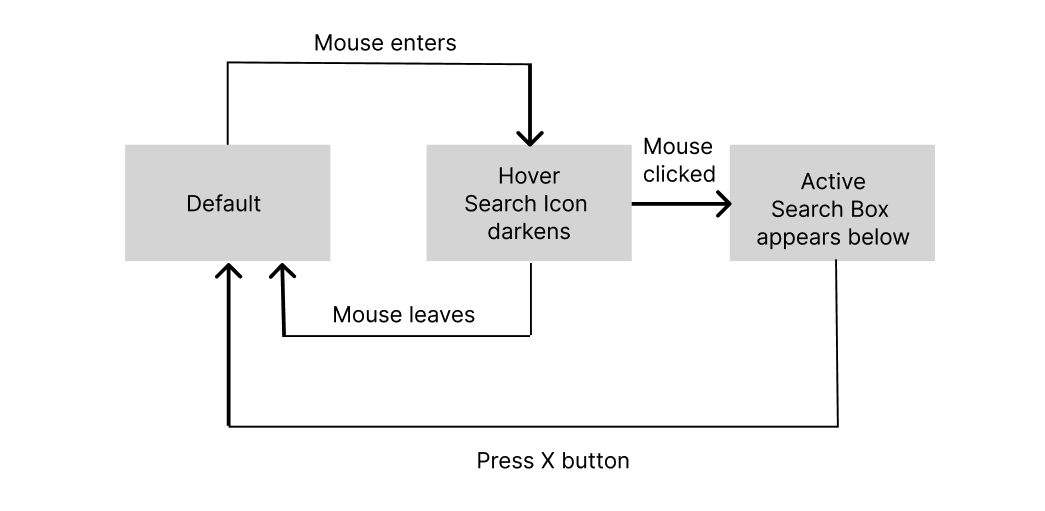
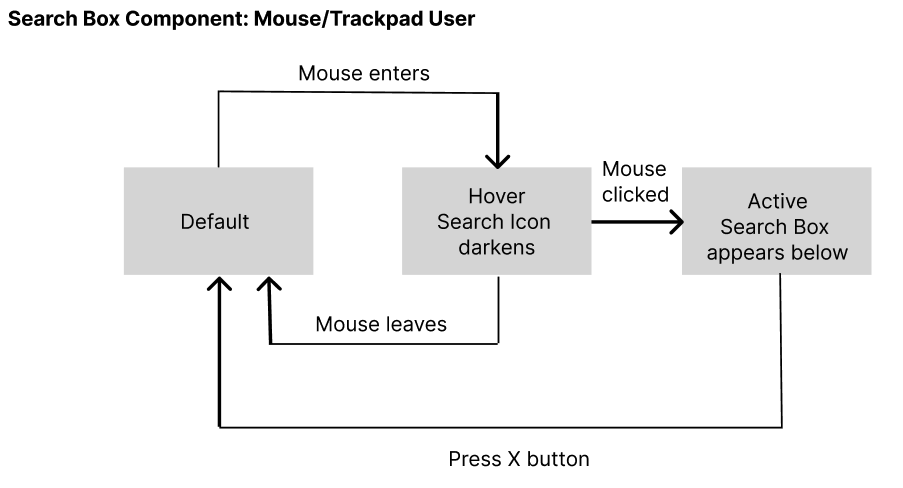
state model images inserted

Changed region(s): [[0.0, 0.0, 0.9922, 0.9529]]

diff --git a/accessible-components.html b/accessible-components.html
@@ -180,8 +180,11 @@
         <h2>Part 3: State Model & Component Redesign</h2>
         <p>Based on these insights, we redesigned the search bar to enhance accessibility. I will be focusing on the redesign of the search bar from the US Department of State website. 
             In order to do so, we need to analyze its component from a state model perspective. </p>
-        <img src="original_state_mouse.png" alt="Original State Mouse/Trackpad" class="profile-img">
-
+            <h3>Current State Model</h3>
+            <div style="text-align: center; margin: 20px 0;">
+                <img src="original_state_mouse.png" alt="Original State - Mouse Interaction" style="max-width: 100%; height: auto; border-radius: 8px; box-shadow: 0 4px 8px rgba(0, 0, 0, 0.1);">
+                <p style="font-size: 14px; color: #666;">Figure 1: Original Search Bar Interaction (Mouse/Trackpad)</p>
+            </div>
         <ul>
             <li>🔹 **Persistent search box** (no hidden icon) → improves **learnability & memorability**.</li>
             <li>🔹 **Click anywhere to exit** (no explicit close button) → improves **efficiency**.</li>
